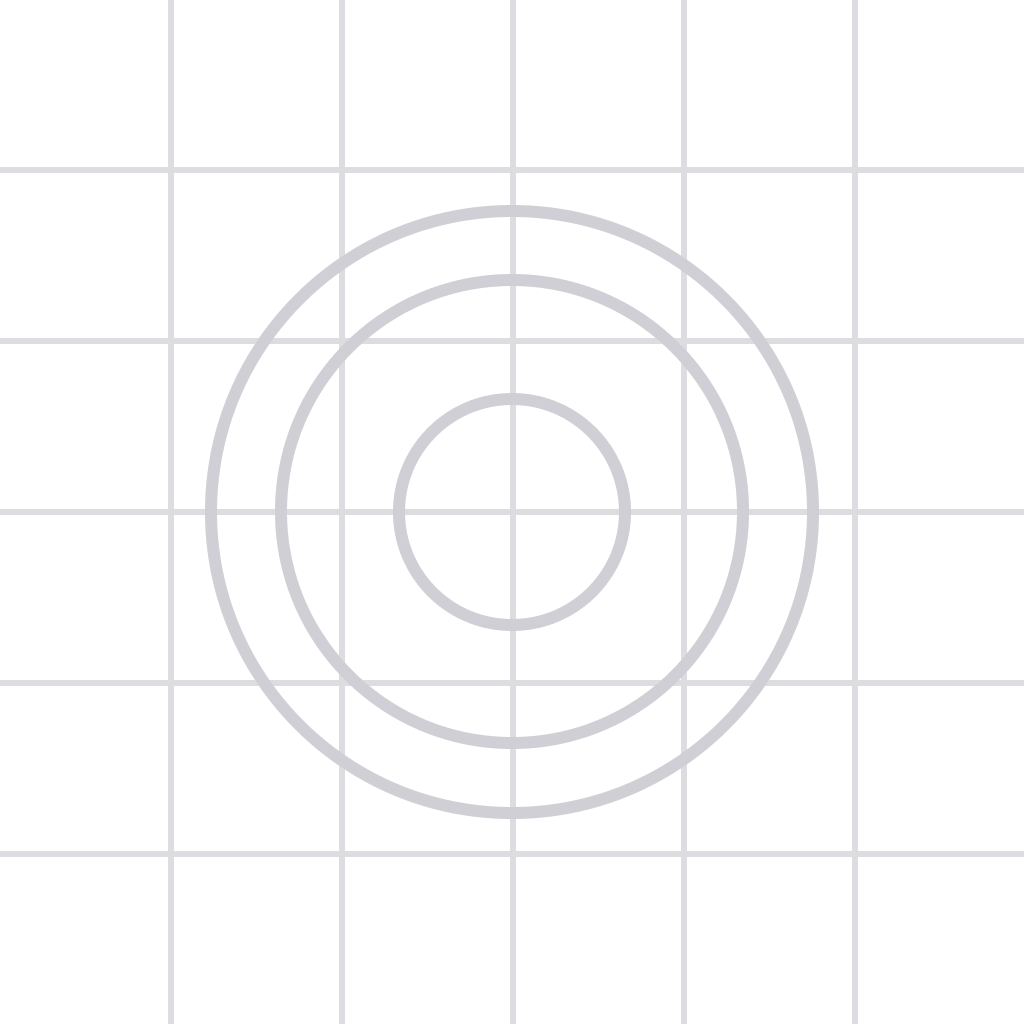
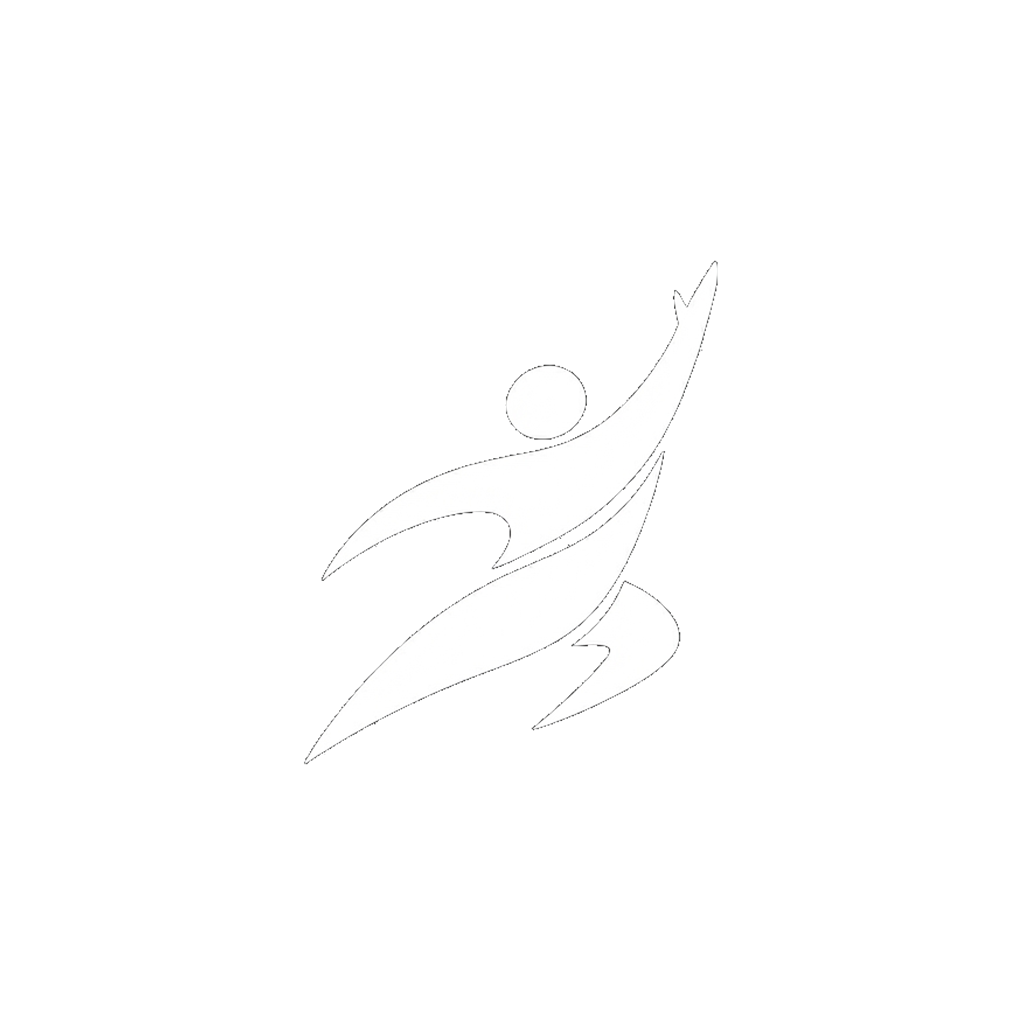
feat: add ThemeScriptSuppressor component to suppress specific console errors in development

Changed region(s): [[0.0, 0.0, 1.0, 1.0]]

diff --git a/apps/web/public/sw.js b/apps/web/public/sw.js
@@ -7,7 +7,7 @@
  */
 const SHELL_CACHE = 'eva-shell-v4';
 const NAV_CACHE = 'eva-nav-v3';
-const STATIC_CACHE = 'eva-static-v4';
+const STATIC_CACHE = 'eva-static-v5';
 const CLIENT_DATA_CACHE = 'eva-client-data-v2';
 
 const OFFLINE_URL = '/offline.html';
@@ -57,9 +57,22 @@ self.addEventListener('fetch', (event) => {
     return;
   }
 
-  // Next.js immutable static assets — cache-first forever
+  // Next.js static assets — network-first so redeployed chunks are never stale;
+  // cache fallback keeps offline support for /c/ routes intact.
   if (url.pathname.startsWith('/_next/static/')) {
-    event.respondWith(cacheFirst(STATIC_CACHE, event.request));
+    event.respondWith(
+      fetch(event.request)
+        .then((res) => {
+          if (res && res.ok) {
+            caches.open(STATIC_CACHE).then((cache) => cache.put(event.request, res.clone()));
+          }
+          return res;
+        })
+        .catch(async () => {
+          const cached = await caches.match(event.request, { cacheName: STATIC_CACHE });
+          return cached || new Response('', { status: 408, statusText: 'Offline' });
+        })
+    );
     return;
   }
 

diff --git a/apps/web/src/components/ThemeScriptSuppressor.tsx b/apps/web/src/components/ThemeScriptSuppressor.tsx
@@ -1,0 +1,15 @@
+'use client'
+import { useEffect } from 'react'
+
+export function ThemeScriptSuppressor() {
+  useEffect(() => {
+    if (process.env.NODE_ENV !== 'development') return
+    const orig = console.error.bind(console)
+    console.error = (...args: unknown[]) => {
+      if (typeof args[0] === 'string' && args[0].includes('Encountered a script tag')) return
+      orig(...args)
+    }
+    return () => { console.error = orig }
+  }, [])
+  return null
+}

diff --git a/apps/web/src/app/page.tsx b/apps/web/src/app/page.tsx
@@ -1,4 +1,5 @@
 import type { Metadata } from 'next'
+import Script from 'next/script'
 import { LandingPillNav } from '@/components/landing/LandingPillNav'
 import { LandingStickyBrandingCard } from '@/components/landing/LandingStickyBrandingCard'
 import { LandingHeroSection } from '@/components/landing/LandingHeroSection'
@@ -57,9 +58,9 @@ export default async function LandingPage() {
 
     return (
         <div className="min-h-dvh bg-background text-foreground overflow-x-hidden">
-            <script
+            <Script
+                id="home-json-ld"
                 type="application/ld+json"
-                // eslint-disable-next-line react/no-danger
                 dangerouslySetInnerHTML={{ __html: JSON.stringify(jsonLd) }}
             />
             <LandingPillNav />

diff --git a/apps/web/src/app/layout.tsx b/apps/web/src/app/layout.tsx
@@ -13,6 +13,7 @@ import { BRAND_APP_ICON, BRAND_OG_IMAGE, BRAND_OG_IMAGE_HEIGHT, BRAND_OG_IMAGE_W
 import { resolveMetadataBase } from '@/lib/site-url'
 import { PostHogProvider } from '@/lib/posthog/provider'
 import { CookieConsent } from '@/components/CookieConsent'
+import { ThemeScriptSuppressor } from '@/components/ThemeScriptSuppressor'
 
 const metadataBase = resolveMetadataBase()
 /** Crawlers (WhatsApp, X) suelen exigir URL absoluta y sin caracteres problemáticos en la ruta. */
@@ -101,6 +102,7 @@ export default function RootLayout({
     <html lang="es" suppressHydrationWarning>
       <body className={`${inter.variable} ${montserrat.variable} antialiased`} suppressHydrationWarning>
         <PostHogProvider>
+          <ThemeScriptSuppressor />
           <ThemeProvider
             attribute="class"
             defaultTheme="dark"